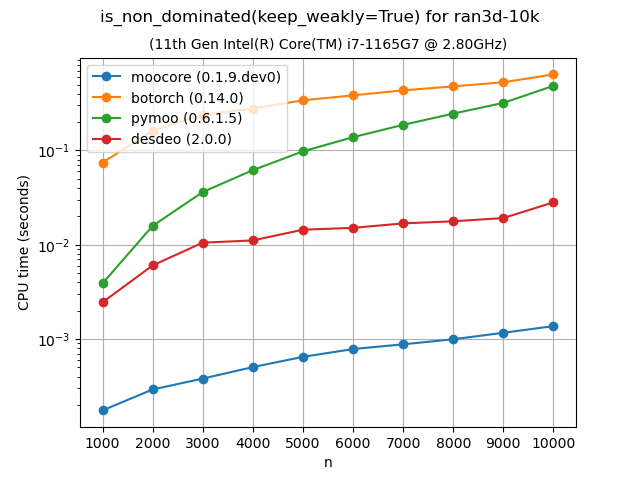
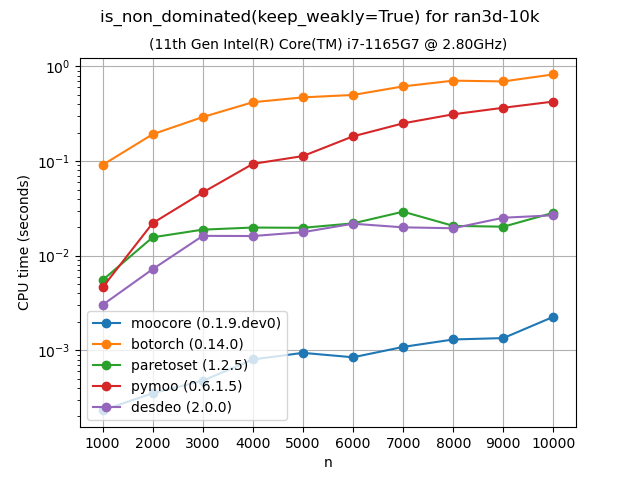
python/ Benchmark paretoset package.
* benchmarks/bench_ndom.py: benchmark paretoset.
 * doc/ Update plots and index.rst.

diff --git a/python/benchmarks/bench_ndom.py b/python/benchmarks/bench_ndom.py
@@ -11,7 +11,6 @@ import numpy as np
 import moocore
 import matplotlib.pyplot as plt
 
-
 import torch
 from botorch.utils.multi_objective.pareto import (
     is_non_dominated as botorch_is_nondominated,
@@ -23,6 +22,8 @@ from pymoo.util.nds.non_dominated_sorting import (
 from desdeo.tools.non_dominated_sorting import (
     non_dominated as desdeo_is_nondominated,
 )
+
+from paretoset import paretoset
 
 # See https://github.com/multi-objective/testsuite/tree/main/data
 files = {
@@ -48,11 +49,12 @@ for name in names:
         name=name,
         n=n,
         bench={
-            "moocore": lambda z: bool2pos(
-                moocore.is_nondominated(z, maximise=True, keep_weakly=False)
+            "moocore": lambda z: moocore.is_nondominated(
+                z, maximise=True, keep_weakly=False
             ),
-            "botorch": lambda z: bool2pos(
-                botorch_is_nondominated(z, deduplicate=True)
+            "botorch": lambda z: botorch_is_nondominated(z, deduplicate=True),
+            "paretoset": lambda z: paretoset(
+                z, sense=z.shape[1] * ["max"], distinct=True, use_numba=True
             ),
         },
     )
@@ -101,6 +103,14 @@ for name in names:
             ),
             "botorch": lambda z: bool2pos(
                 botorch_is_nondominated(z, deduplicate=False)
+            ),
+            "paretoset": lambda z: bool2pos(
+                paretoset(
+                    z,
+                    sense=z.shape[1] * ["max"],
+                    distinct=False,
+                    use_numba=True,
+                )
             ),
             "pymoo": lambda z, nds=pymoo_NonDominatedSorting(): nds.do(
                 -z, only_non_dominated_front=True

diff --git a/python/benchmarks/bench.py b/python/benchmarks/bench.py
@@ -66,6 +66,8 @@ def get_package_version(package):
             from jmetal import __version__ as version
         case "trieste":
             from trieste import __version__ as version
+        case "paretoset":
+            from paretoset import __version__ as version
         case "DEAP_er":
             # Requires version >= 0.2.0
             from deap_er import __version__ as version

diff --git a/python/doc/source/index.rst b/python/doc/source/index.rst
@@ -66,9 +66,9 @@ performance measures, performance assessment
 Benchmarks
 ==========
 
-The following plots compare the performance of `moocore`_, `pymoo`_, `BoTorch`_, and `jMetalPy`_. Other Python packages are not included in the comparison because they are based on these packages for the functionality benchmarked, so they are **at least as slow** as them. For example `Xopt`_ and `BoFire`_ use `BoTorch`_, `pysamoo`_ is an extension of `pymoo`_, `DESDEO`_ already uses `moocore`_ for hypervolume and other quality metrics, and most of the multi-objective functionality of `DEAP`_ is shared by `pymoo`_.  We do not compare with the Bayesian optimization toolbox `trieste`_, because it is much slower than `BoTorch`_ and too slow to run the benchmarks in a reasonable time.
+The following plots compare the performance of `moocore`_, `pymoo`_, `BoTorch`_, `DESDEO`_, `paretoset`_ and `jMetalPy`_. Other Python packages are not included in the comparison because they are based on these packages for the functionality benchmarked, so they are **at least as slow** as them. For example `Xopt`_ and `BoFire`_ use `BoTorch`_, `pysamoo`_ is an extension of `pymoo`_, `DESDEO`_ already uses `moocore`_ for hypervolume and other quality metrics, and most of the multi-objective functionality of `DEAP`_ is shared by `pymoo`_.  We do not compare with the Bayesian optimization toolbox `trieste`_, because it is much slower than `BoTorch`_ and too slow to run the benchmarks in a reasonable time.
 
-Not all packages provide the same functionality. For example, `pymoo`_ does not provide the :ref:`epsilon indicator <epsilon_metric>` whereas `jMetalPy`_ does not provide the :ref:`IGD+ indicator <igd_hausdorf>`. `BoTorch`_ provides neither of them.
+Not all packages provide the same functionality. For example, `pymoo`_ does not provide the :ref:`epsilon indicator <epsilon_metric>` whereas `jMetalPy`_ does not provide the :ref:`IGD+ indicator <igd_hausdorf>`. `BoTorch`_ provides neither of them. `paretoset`_ only identifies nondominated points.
 
 The source code for the benchmarks below can be found at https://github.com/multi-objective/moocore/tree/main/python/benchmarks .
 
@@ -76,7 +76,7 @@ The source code for the benchmarks below can be found at https://github.com/mult
 Identifying nondominated points
 -------------------------------
 
-The following plots compare the speed of finding nondominated solutions, equivalent to :func:`moocore.is_nondominated`, in 2D and 3D. We test both ``keep_weakly=True`` and ``keep_weakly=False`` (the latter is not supported by `pymoo`_ nor `DESDEO`_).  The plots show that `moocore`_ is 10 times faster than `DESDEO`_ and 100 times faster than the other packages.
+The following plots compare the speed of finding nondominated solutions, equivalent to :func:`moocore.is_nondominated`, in 2D and 3D. We test both ``keep_weakly=True`` and ``keep_weakly=False`` (the latter is not supported by `pymoo`_ nor `DESDEO`_).  The plots show that `moocore`_ is 10 times faster than `DESDEO`_ and `paretoset`_ and 100 times faster than the other packages.
 
 |wndom_bench-test2D-200k| |wndom_bench-ran3d-10k|
 
@@ -217,6 +217,7 @@ The following plots compare the speed of computing the :ref:`epsilon indicator  
 .. _DESDEO: https://desdeo.readthedocs.io/en/latest/
 .. _trieste: https://secondmind-labs.github.io/trieste
 .. _Numba: https://numba.pydata.org/numba-doc/dev/index.html
+.. _paretoset: https://github.com/tommyod/paretoset
 
 .. This is not really the index page, that is found in
    _templates/indexcontent.html The toctree content here will be added to the
